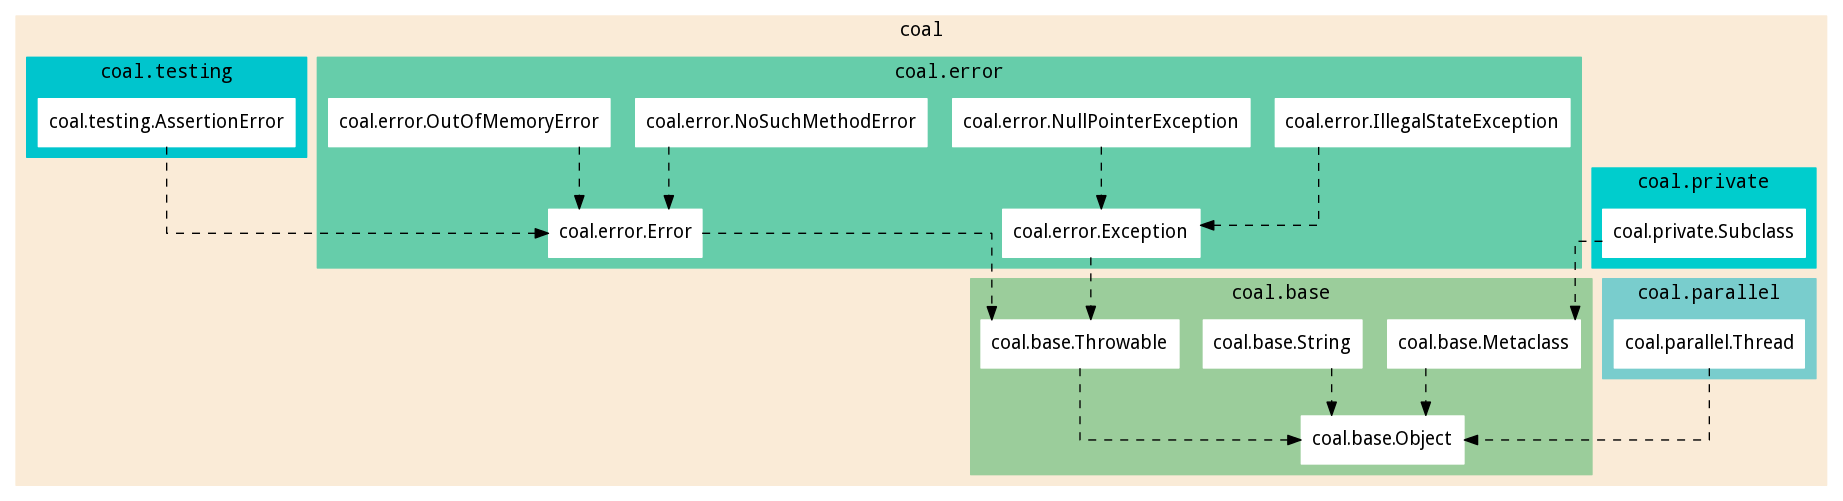
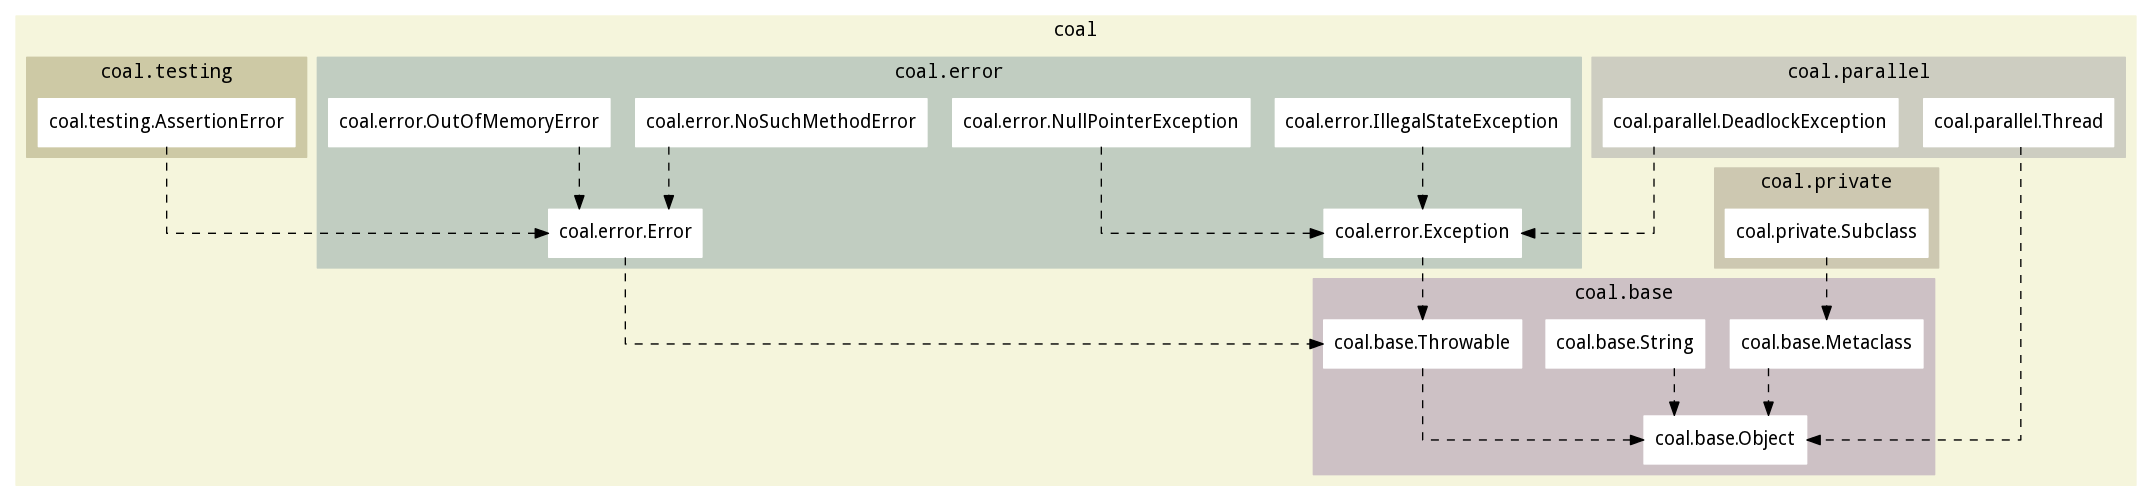
The minimal thread implementation is now a little more minimal, but a whole lot more robust.

diff --git a/coal/parallel/Thread/Thread.c b/coal/parallel/Thread/Thread.c
@@ -17,6 +17,10 @@
  * Foundation, Inc., 51 Franklin Street, Fifth Floor, Boston, MA  02110-1301  USA
  */
 
+#include <errno.h>
+#include <stdbool.h>
+#include <stddef.h> /* NULL */
+
 #include <pthread.h>
 
 #include <coal/private/atomic.h>
@@ -28,6 +32,9 @@
 #include <coal/base/Metaclass.h>
 
 #include <coal/error/IllegalStateException.h>
+#include <coal/error/OutOfMemoryError.h>
+
+#include <coal/parallel/DeadlockException.h>
 
 #include <coal/parallel/Thread.h>
 #include <coal/parallel/Thread/Thread.rep.h>
@@ -36,11 +43,6 @@
 
 var Thread_constructor (var _self, va_list * args) {
   class(Thread) * self = _self;
-
-  /* FIXME: ENOMEM might happen here, very inconvenient in the
-     middle of a constructor, might be a good idea to split
-     this up into another method, fix this later. */
-  (void) pthread_attr_init(&self->attr);
 
   self->start_routine = va_arg(*args, void *(*)(void *));
   self->args = va_arg(*args, void *);
@@ -52,18 +54,17 @@ var Thread_constructor (var _self, va_list * args) {
 
 var Thread_destructor (var _self) {
   class(Thread) * self = _self;
+  pthread_t this = pthread_self();
 
-  if (self->active)
-    /* FIXME: a host of different errors might happen here
-       as well, right in the middle of a destructor, very
-       unhealthy, fix later. */
-    (void) coal_parallel_Thread_join(_self);
-
-  /* FIXME: EINVAL might happen here, again in the middle
-     of a destructor, very unhealthy, if we're good we can
-     ensure that self->attr is always valid before the
-     destructor is called. */
-  (void) pthread_attr_destroy(&self->attr);
+  if (pthread_equal(this, self->thread))
+    /* if some genius decides to delete the same thread he is
+       calling with we stop him. throwing something would be
+       better here but alas throwing things from destructors
+       is bad for your health */
+    /* a smart person could probably find some way to convey
+       the message to the user that something fishy is going
+       on */
+    return NULL;
 
   return _self;
 }
@@ -74,12 +75,18 @@ void coal_parallel_Thread_exit (void * retval) {
   /* FIXME: do our attributes get deallocated here? that
      would be magical but unlikely. we have to delete
      ourselves and only then call pthread_exit. */
+  /* FIXED: we no longer carry attributes, so much for
+     customization and usability. */
+  /* do we delete our parallel.Thread object? no, we have not
+     created it so we do technically not hold a reference to
+     it */
   pthread_exit(retval);
 }
 
 void * coal_parallel_Thread_join (val _thread) {
   const class(Thread) * thread = _thread;
   void * retval;
+  int error;
 
   CheckAndThrowMissingMethod(_thread, coal_parallel_Thread());
 
@@ -88,27 +95,55 @@ void * coal_parallel_Thread_join (val _thread) {
 			"%s: attempted to join with a thread that has not yet started",
 			__func__));
 
-  /*
-   * FIXME: tons of things can go wrong here
-   *
-   * errno
-   *   \
-   *    |- EDEADLK: circular join chain
-   *    |- EINVAL: thread not joinable (not possible yet)
-   *    |- EINVAL: another thread is attempting to join with
-   *    |          this thread
-   *    |- ESRCH: no thread with that thread id exists
-   *    |         (shouldn't happen)
-   *
-   * Check these and throw the appropriate exception/error.
-   */
-  (void) pthread_join(thread->thread, &retval);
+  error = pthread_join(thread->thread, &retval);
+
+  if (error) {
+    switch (error) {
+    case EDEADLK:
+      /*
+       * EDEADLK: ``A  deadlock  was  detected (e.g., two
+       * threads tried to join with each other); or thread
+       * specifies the calling thread.''
+       */
+      coal_throw(coal_new(coal_parallel_DeadlockException(),
+			  "%s: attempted join would cause a deadlock",
+			  __func__));
+      break;
+    case EINVAL:
+      /*
+       * EINVAL: ``thread is not a joinable thread.''
+       * parallel.Thread objects are either inactive or are
+       * valid joinable threads.
+       *
+       * EINVAL: ``Another thread is already waiting to join
+       * with this thread.''
+       */
+      /* the choice of exception here is dubious */
+      coal_throw(coal_new(coal_error_IllegalStateException(),
+			  "%s: attempted to join with a thread that is already being joined by another thread",
+			  __func__));
+      break;
+    case ESRCH:
+      /*
+       * ESRCH: ``No thread with the ID thread could be
+       * found.''
+       * parallel.Thread objects are either inactive or carry
+       * a valid thread-id.
+       */
+      (void) 0;
+      break;
+    default:
+      /* we never reach this point */
+      break;
+    }
+  }
 
   return retval;
 }
 
 void coal_parallel_Thread_start (var _self) {
   class(Thread) * self = _self;
+  int error;
 
   CheckAndThrowMissingMethod(_self, coal_parallel_Thread());
 
@@ -123,10 +158,37 @@ void coal_parallel_Thread_start (var _self) {
       break;
   }
 
-  /* FIXME: lots of things might go wrong here, find them
-     and throw appropriate exception/error. */
-  (void) pthread_create(&self->thread, &self->attr,
-			self->start_routine, self->args);
+  error = pthread_create(&self->thread, NULL /* default */,
+			 self->start_routine, self->args);
+
+  if (error) {
+    switch (error) {
+    case EINVAL:
+      /*
+       * EINVAL: ``Invalid settings in attr.''
+       * This shouldn't happen since we currently use default
+       * attributes.
+       */
+      (void) 0;
+      break;
+    case EPERM:
+      /*
+       * EPERM: ``No permission to set the scheduling policy
+       * and parameters specified in attr.''
+       * This shouldn't happen since we currently use default
+       * attributes.
+       */
+      /* intentional fall through */
+    case EAGAIN:
+      coal_throw(coal_new(coal_error_OutOfMemoryError(),
+			  "%s: unable to start new thread, out of system resources",
+			  __func__));
+      break;
+    default:
+      /* this never happens */
+      break;
+    }
+  }
 }
 
 SETUP_CLASS_DESCRIPTION(coal_parallel_Thread,

diff --git a/coal/parallel/DeadlockException.h b/coal/parallel/DeadlockException.h
@@ -17,29 +17,26 @@
  * Foundation, Inc., 51 Franklin Street, Fifth Floor, Boston, MA  02110-1301  USA
  */
 
-#ifndef COAL_PARALLEL_THREAD_REP_H
-#define COAL_PARALLEL_THREAD_REP_H
+#ifndef COAL_PARALLEL_DEADLOCKEXCEPTION_H
+#define COAL_PARALLEL_DEADLOCKEXCEPTION_H
 
-#include <stdbool.h>
+#include <coal/error/Exception.h>
 
-#include <pthread.h>
+/**
+ * coal_parallel_DeadlockException
+ *
+ * Exception that indicates that a call that would cause
+ * deadlock was made.
+ *
+ * @extends coal_error_Exception
+ * @constructor takes a variable amount of arguments
+ * @param (const char *) printf-like format string
+ * @param (...) printf-like arguments
+ */
+coal_cfunspec val coal_parallel_DeadlockException (void) coal_funattr_const;
 
-#include <coal/private/atomic.h>
-#include <coal/base/Object/Object.rep.h>
+#ifdef COAL_PARALLEL_NAMESPACE_POLLUTE
+# define DeadlockException() coal_parallel_DeadlockException()
+#endif
 
-class (Thread) {
-  extends(Object);
-
-  /* see pthread_create, will add more attributes as we go
-     along */
-  pthread_t thread;
-  /* pthread_attr_t attr; */
-
-  void *(*start_routine) (void *);
-  void * args;
-
-  /* flag to indicate whether thread has been started yet */
-  atomic(bool) active;
-};
-
-#endif /* COAL_PARALLEL_THREAD_REP_H */
+#endif /* COAL_PARALLEL_DEADLOCKEXCEPTION_H */

diff --git a/coal/parallel/DeadlockException/DeadlockException.c b/coal/parallel/DeadlockException/DeadlockException.c
@@ -17,29 +17,12 @@
  * Foundation, Inc., 51 Franklin Street, Fifth Floor, Boston, MA  02110-1301  USA
  */
 
-#ifndef COAL_PARALLEL_THREAD_REP_H
-#define COAL_PARALLEL_THREAD_REP_H
+#include <coal/private/classes/Subclass.h>
+#include <coal/private/library.h>
+#include <coal/private/virtual_methods.h>
 
-#include <stdbool.h>
+#include <coal/error/Exception.h>
 
-#include <pthread.h>
-
-#include <coal/private/atomic.h>
-#include <coal/base/Object/Object.rep.h>
-
-class (Thread) {
-  extends(Object);
-
-  /* see pthread_create, will add more attributes as we go
-     along */
-  pthread_t thread;
-  /* pthread_attr_t attr; */
-
-  void *(*start_routine) (void *);
-  void * args;
-
-  /* flag to indicate whether thread has been started yet */
-  atomic(bool) active;
-};
-
-#endif /* COAL_PARALLEL_THREAD_REP_H */
+ExceptionDefinitionTemplate(coal_parallel_DeadlockException,
+			    LIBRARY_STR ".parallel.DeadlockException",
+			    coal_error_Exception())

diff --git a/coal/throw.c b/coal/throw.c
@@ -31,6 +31,8 @@
 #include <coal/private/stack.h>
 #include <coal/private/try_catch.h>
 
+#include <coal/parallel/Thread.h> /* coal_parallel_Thread_exit */
+
 noreturn void coal_throw (var throwable) {
   if (coal_private_stack_isEmpty(&_coal_private_try_stack)) {
     fputs("unhandled exception: ", stderr);
@@ -48,12 +50,12 @@ noreturn void coal_throw (var throwable) {
 #endif /* HAVE_EXECINFO_H */
 
     coal_del(throwable);
-    exit(EXIT_FAILURE);
+    coal_parallel_Thread_exit(NULL);
   } else {
     struct _coal_private_try_context * handler =
       coal_private_stack_pop(&_coal_private_try_stack);
 
-    /* this will never happen, look up */
+    /* this will never happen, stack isn't empty */
     if (handler == NULL) {
       fputs("fatal exception stack error: No such element\n",
 	    stderr);

diff --git a/coal/parallel/Thread.h b/coal/parallel/Thread.h
@@ -71,4 +71,17 @@ coal_cfunspec void * coal_parallel_Thread_join (val thread);
  */
 coal_cfunspec void coal_parallel_Thread_start (var self);
 
+#ifdef COAL_PARALLEL_NAMESPACE_POLLUTE
+# define Thread()        coal_parallel_Thread()
+# define Thread_exit(r)  coal_parallel_Thread_exit(r)
+# define Thread_join(t)  coal_parallel_Thread_join(t)
+# define Thread_start(s) coal_parallel_Thread_start(s)
+#endif
+
+#ifdef COAL_PARALLEL_THREAD_NAMESPACE_POLLUTE
+# define exit(r)  coal_parallel_Thread_exit(r)
+# define join(t)  coal_parallel_Thread_join(t)
+# define start(s) coal_parallel_Thread_start(s)
+#endif
+
 #endif /* COAL_PARALLEL_THREAD_H */
